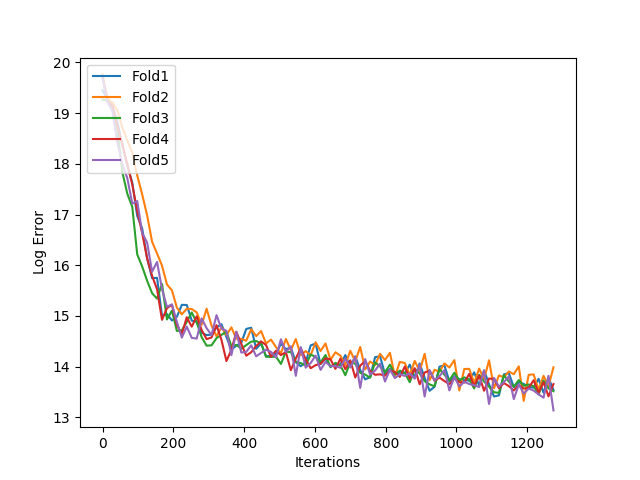
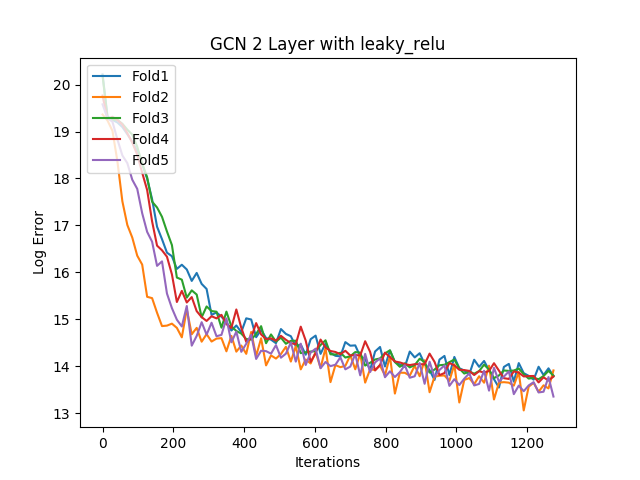
preprocessed dataset before training

diff --git a/model_relu_2_GCN.py b/model_relu_2_GCN.py
@@ -10,7 +10,7 @@ from scipy.io import loadmat
 import torch.nn.functional as F
 
 data = loadmat('qm7.mat')
-X = data['X']
+dataset = data['X']
 folds = data['P']
 label = data['T']
 
@@ -54,7 +54,16 @@ master_iteration_array = []
 fold_iteration = 0
 #master_iteration = 0
 
+# Preprocess the entire dataset beforehand
+X = {}
+for index, item in enumerate(dataset):
+	A, D = preprocess(item)
+	X[index] = (A,D)
+
+print 'Preprocessing Finished'
+
 for fold in folds:
+	#break
 	fold_iteration += 1
 	master_iteration = 0
 	loss_array = []
@@ -76,11 +85,12 @@ for fold in folds:
 			x_list = []
 			y_list = []
 			for index in indices:
-				a_hat, d = preprocess(X[index])
+				a_hat, d = X[index]
 				a_list.append(a_hat)
 				d_list.append(d)
-				x_list.append(X[index])
+				x_list.append(dataset[index])
 				y_list.append(label[0][index])
+			#print x_list
 			a_list = numpy.array(a_list)
 			a_list = torch.from_numpy(a_list)
 			a_list = Variable(a_list, requires_grad = False)
@@ -134,5 +144,6 @@ plt.plot(b[0],a[0], b[1],a[1], b[2], a[2], b[3], a[3], b[4], a[4])
 plt.legend(['Fold1', 'Fold2', 'Fold3', 'Fold4', 'Fold5'], loc='upper left')
 plt.xlabel('Iterations')
 plt.ylabel('Log Error')
+plt.title('GCN 2 Layer with leaky_relu')
 plt.show()
 plt.savefig('results_relu_2layer_GCN.png')
